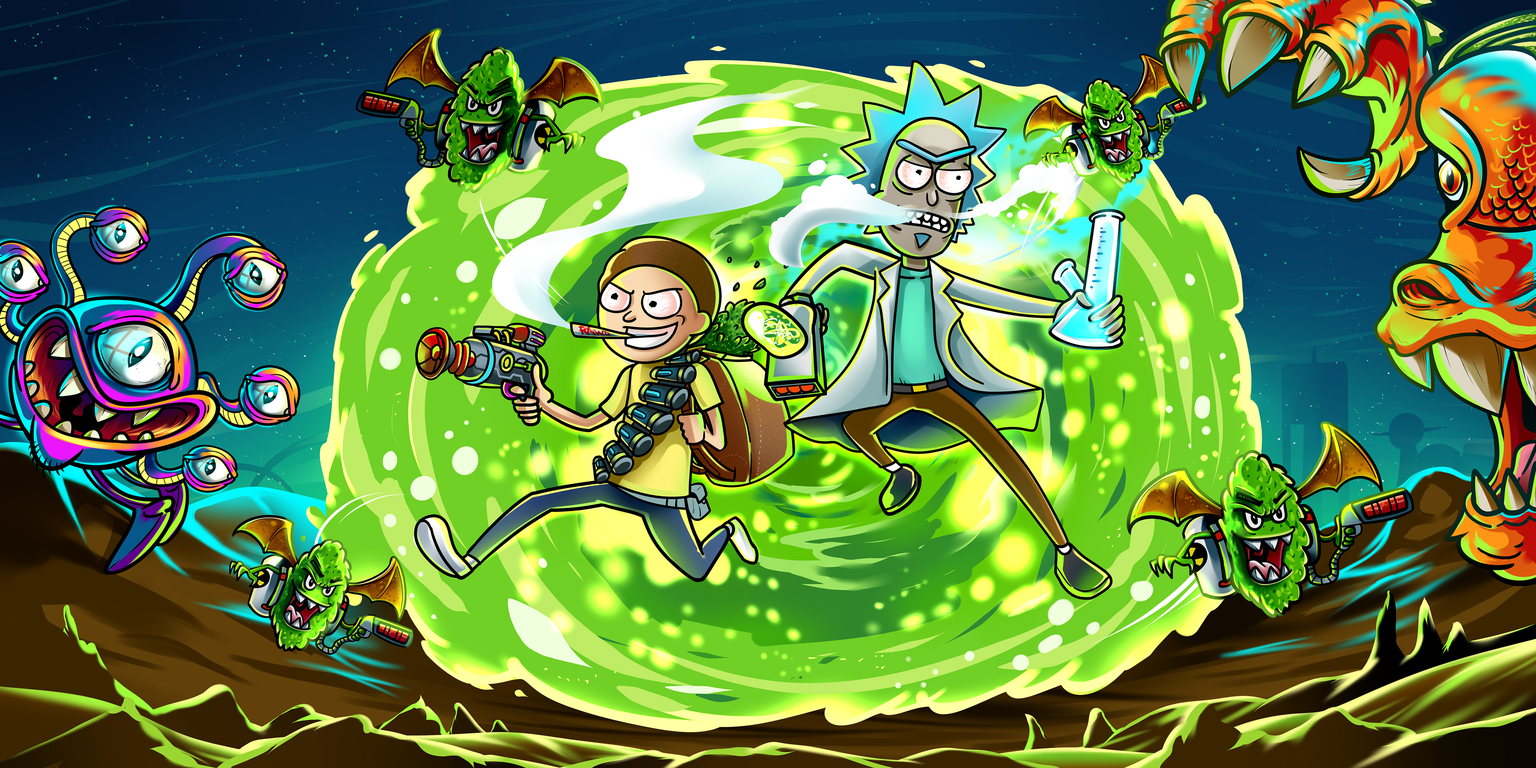
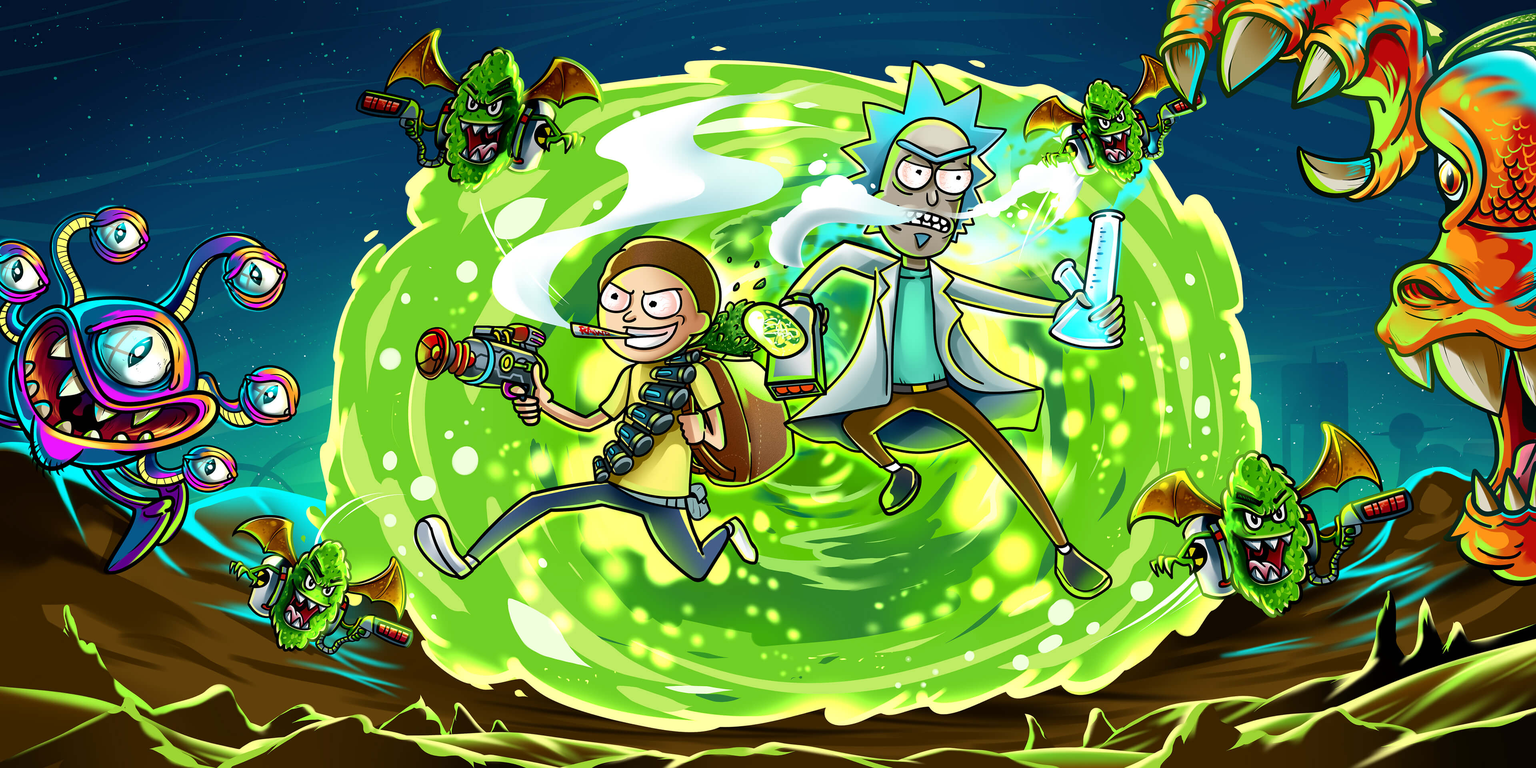
Image size reduced. Subscribing to api calls with async pipe and RxJs map for filtering results. Some styling..

diff --git a/src/app/episodes/components/episodes-table/episodes-table.component.ts b/src/app/episodes/components/episodes-table/episodes-table.component.ts
@@ -1,0 +1,45 @@
+import { Component, OnInit, OnChanges, SimpleChanges, ViewChild, Input, ChangeDetectionStrategy, ChangeDetectorRef } from '@angular/core';
+import {MatPaginator} from '@angular/material/paginator';
+import {MatSort} from '@angular/material/sort';
+import {MatTableDataSource} from '@angular/material/table';
+
+import { Episode } from '@shared/interfaces/index';
+
+@Component({
+  selector: 'app-episodes-table',
+  templateUrl: './episodes-table.component.html',
+  styleUrls: ['./episodes-table.component.scss'],
+  changeDetection: ChangeDetectionStrategy.OnPush
+})
+export class EpisodesTableComponent implements OnInit, OnChanges {
+  @ViewChild(MatPaginator, {static: true}) paginator: MatPaginator;
+  @ViewChild(MatSort, {static: true}) sort: MatSort;
+  @Input() episodes: Episode[];
+
+  dataSource: MatTableDataSource<Episode>;
+  displayedColumns: string[] = ['episode', 'name', 'air_date', 'url'];
+
+  constructor(private cd: ChangeDetectorRef) {
+    this.dataSource = new MatTableDataSource(this.episodes);
+  }
+
+  ngOnInit(): void {
+    this.dataSource.paginator = this.paginator;
+    this.dataSource.sort = this.sort;
+
+    this.cd.detectChanges();
+  }
+
+  ngOnChanges(changes: SimpleChanges) {
+    if (changes.episodes.currentValue) {
+      this.assignDataSource(changes.episodes.currentValue);
+    }
+  }
+
+  private assignDataSource(dataSource) {
+    this.dataSource = new MatTableDataSource(dataSource);
+    this.dataSource.paginator = this.paginator;
+    this.dataSource.sort = this.sort;
+  }
+
+}

diff --git a/src/app/episodes/components/episodes-table/episodes-table.component.html b/src/app/episodes/components/episodes-table/episodes-table.component.html
@@ -1,0 +1,30 @@
+<div *ngIf="dataSource" class="mat-elevation-z8">
+    <table mat-table [dataSource]="dataSource" matSort>
+  
+      <ng-container matColumnDef="episode">
+        <th mat-header-cell *matHeaderCellDef mat-sort-header> Episode </th>
+        <td mat-cell *matCellDef="let episode"> {{episode.episode}} </td>
+      </ng-container>
+  
+      <ng-container matColumnDef="name">
+        <th mat-header-cell *matHeaderCellDef mat-sort-header> Name </th>
+        <td mat-cell *matCellDef="let episode"> {{episode.name}}% </td>
+      </ng-container>
+  
+      <ng-container matColumnDef="air_date">
+        <th mat-header-cell *matHeaderCellDef mat-sort-header> Air Date </th>
+        <td mat-cell *matCellDef="let episode"> {{episode.air_date}} </td>
+      </ng-container>
+  
+      <ng-container matColumnDef="url">
+        <th mat-header-cell *matHeaderCellDef mat-sort-header> Url </th>
+        <td mat-cell *matCellDef="let episode"> {{episode.url}} </td>
+      </ng-container>
+  
+      <tr mat-header-row *matHeaderRowDef="displayedColumns"></tr>
+      <tr mat-row *matRowDef="let episode; columns: displayedColumns;">
+      </tr>
+    </table>
+  
+    <mat-paginator [length]="dataSource.data.length" [pageSizeOptions]="[5, 10, 25, 100]"></mat-paginator>
+</div>

diff --git a/src/app/episodes/episodes.component.ts b/src/app/episodes/episodes.component.ts
@@ -1,6 +1,8 @@
+import { Episode } from './../shared/interfaces/episodes/episode.interface';
 import { Component, OnInit } from '@angular/core';
 import { FetchApiService } from '@shared/services/fetch-api.service';
-import { EndpointEpisodes } from '@shared/interfaces/index';
+import { Observable } from 'rxjs';
+import { map } from 'rxjs/operators';
 
 @Component({
   selector: 'app-episodes',
@@ -8,16 +10,14 @@ import { EndpointEpisodes } from '@shared/interfaces/index';
   styleUrls: ['./episodes.component.scss']
 })
 export class EpisodesComponent implements OnInit {
-  episodes: EndpointEpisodes;
+  episodes$: Observable<Episode[]>;
 
   constructor(private fetchApiService: FetchApiService) {}
 
   ngOnInit(): void {
-    this.fetchApiService.getEpisodes()
-      .subscribe(episodes => {
-        console.log(episodes);
-        this.episodes = episodes;
-      });
+    this.episodes$ = this.fetchApiService.getEpisodes().pipe(
+      map(episodes => episodes.results)
+    );
   }
 
 }

diff --git a/src/app/characters/characters.component.ts b/src/app/characters/characters.component.ts
@@ -1,6 +1,8 @@
 import { Component, OnInit } from '@angular/core';
 import { FetchApiService } from '@shared/services/fetch-api.service';
-import { EndpointCharacters } from '@shared/interfaces/index';
+import { Character } from '@shared/interfaces/index';
+import { Observable } from 'rxjs';
+import { map } from 'rxjs/operators';
 
 @Component({
   selector: 'app-characters',
@@ -8,15 +10,13 @@ import { EndpointCharacters } from '@shared/interfaces/index';
   styleUrls: ['./characters.component.scss']
 })
 export class CharactersComponent implements OnInit {
-  characters: EndpointCharacters;
+  characters$: Observable<Character[]>;
 
   constructor(private fetchApiService: FetchApiService) {}
 
   ngOnInit() {
-    this.fetchApiService.getCharacters()
-      .subscribe((characters) => {
-        this.characters = characters;
-      }
+    this.characters$ = this.fetchApiService.getCharacters().pipe(
+      map(characters => characters.results)
     );
   }
 

diff --git a/src/app/episodes/components/episodes-table/episodes-table.component.spec.ts b/src/app/episodes/components/episodes-table/episodes-table.component.spec.ts
@@ -1,20 +1,20 @@
 import { async, ComponentFixture, TestBed } from '@angular/core/testing';
 
-import { EpisodeComponent } from './episode.component';
+import { EpisodesTableComponent } from './episodes-table.component';
 
-describe('EpisodeComponent', () => {
-  let component: EpisodeComponent;
-  let fixture: ComponentFixture<EpisodeComponent>;
+describe('EpisodesTableComponent', () => {
+  let component: EpisodesTableComponent;
+  let fixture: ComponentFixture<EpisodesTableComponent>;
 
   beforeEach(async(() => {
     TestBed.configureTestingModule({
-      declarations: [ EpisodeComponent ]
+      declarations: [ EpisodesTableComponent ]
     })
     .compileComponents();
   }));
 
   beforeEach(() => {
-    fixture = TestBed.createComponent(EpisodeComponent);
+    fixture = TestBed.createComponent(EpisodesTableComponent);
     component = fixture.componentInstance;
     fixture.detectChanges();
   });

diff --git a/src/app/core/material.module.ts b/src/app/core/material.module.ts
@@ -2,17 +2,26 @@ import { NgModule } from '@angular/core';
 import { CommonModule } from '@angular/common';
 import { FlexLayoutModule } from '@angular/flex-layout';
 import { MatToolbarModule } from '@angular/material/toolbar';
+import { MatTableModule } from '@angular/material/table';
+import { MatPaginatorModule } from '@angular/material/paginator';
+import { MatSortModule } from '@angular/material/sort';
 
 @NgModule({
     declarations: [],
     imports: [
         CommonModule,
         FlexLayoutModule,
-        MatToolbarModule
+        MatToolbarModule,
+        MatTableModule,
+        MatPaginatorModule,
+        MatSortModule,
     ],
     exports: [
         FlexLayoutModule,
-        MatToolbarModule
+        MatToolbarModule,
+        MatTableModule,
+        MatPaginatorModule,
+        MatSortModule,
     ],
     providers: [],
 })

diff --git a/src/app/episodes/episodes.module.ts b/src/app/episodes/episodes.module.ts
@@ -1,15 +1,17 @@
 import { NgModule } from '@angular/core';
 import { CommonModule } from '@angular/common';
-
+import { MaterialModule } from '@core/material.module';
 import { EpisodesRoutingModule } from './episodes-routing.module';
+
 import { EpisodesComponent } from './episodes.component';
-import { EpisodeComponent } from './components/episode/episode.component';
+import { EpisodesTableComponent } from './components/episodes-table/episodes-table.component';
 
 
 @NgModule({
-  declarations: [EpisodesComponent, EpisodeComponent],
+  declarations: [EpisodesComponent, EpisodesTableComponent],
   imports: [
     CommonModule,
+    MaterialModule,
     EpisodesRoutingModule
   ]
 })

diff --git a/src/app/shared/components/filter/filter.component.spec.ts b/src/app/shared/components/filter/filter.component.spec.ts
@@ -1,0 +1,25 @@
+import { async, ComponentFixture, TestBed } from '@angular/core/testing';
+
+import { FilterComponent } from './filter.component';
+
+describe('FilterComponent', () => {
+  let component: FilterComponent;
+  let fixture: ComponentFixture<FilterComponent>;
+
+  beforeEach(async(() => {
+    TestBed.configureTestingModule({
+      declarations: [ FilterComponent ]
+    })
+    .compileComponents();
+  }));
+
+  beforeEach(() => {
+    fixture = TestBed.createComponent(FilterComponent);
+    component = fixture.componentInstance;
+    fixture.detectChanges();
+  });
+
+  it('should create', () => {
+    expect(component).toBeTruthy();
+  });
+});

diff --git a/src/app/shared/shared.module.ts b/src/app/shared/shared.module.ts
@@ -6,9 +6,10 @@ import { MaterialModule } from '@core/material.module';
 
 import { NavbarComponent } from './components/navbar/navbar.component';
 import { SliderComponent } from './components/slider/slider.component';
+import { FilterComponent } from './components/filter/filter.component';
 
 @NgModule({
-    declarations: [NavbarComponent, SliderComponent],
+    declarations: [NavbarComponent, SliderComponent, FilterComponent],
     imports: [
         CommonModule,
         RouterModule,

diff --git a/src/app/characters/characters.component.html b/src/app/characters/characters.component.html
@@ -1,3 +1,3 @@
-<div *ngIf="characters && characters.results" class="characters" fxLayout="row wrap" fxLayoutAlign="space-around center">
-    <app-character *ngFor="let character of characters.results" [character]="character"></app-character>
+<div *ngIf="(characters$ | async) as characters" class="characters" fxLayout="row wrap" fxLayoutAlign="space-around center">
+    <app-character *ngFor="let character of characters" [character]="character"></app-character>
 </div>

diff --git a/src/app/episodes/episodes.component.html b/src/app/episodes/episodes.component.html
@@ -1,3 +1,1 @@
-<div *ngIf="episodes && episodes.results" class="episodes" fxLayout="row wrap" fxLayoutAlign="space-around center">
-    <app-episode *ngFor="let episode of episodes.results" [episode]="episode"></app-episode>
-</div>
+<app-episodes-table *ngIf="(episodes$ | async) as episodes" [episodes]="episodes"></app-episodes-table>

diff --git a/src/app/shared/components/filter/filter.component.ts b/src/app/shared/components/filter/filter.component.ts
@@ -1,0 +1,15 @@
+import { Component, OnInit } from '@angular/core';
+
+@Component({
+  selector: 'app-filter',
+  templateUrl: './filter.component.html',
+  styleUrls: ['./filter.component.scss']
+})
+export class FilterComponent implements OnInit {
+
+  constructor() { }
+
+  ngOnInit(): void {
+  }
+
+}
